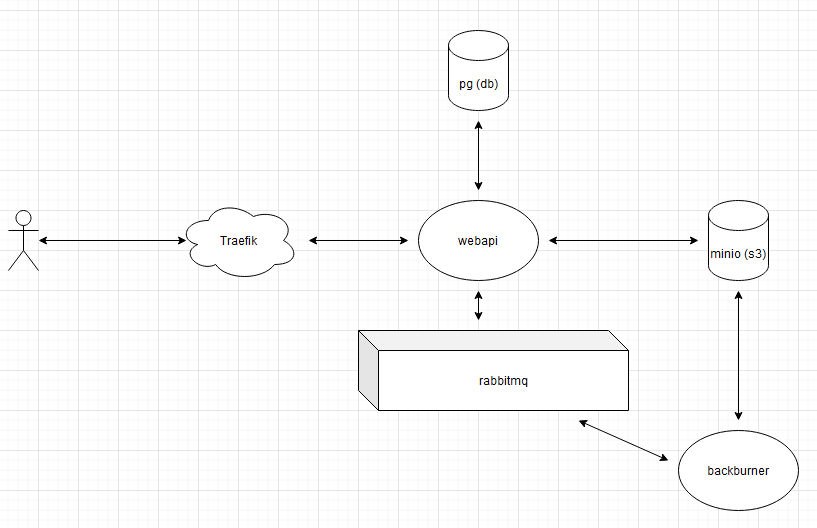
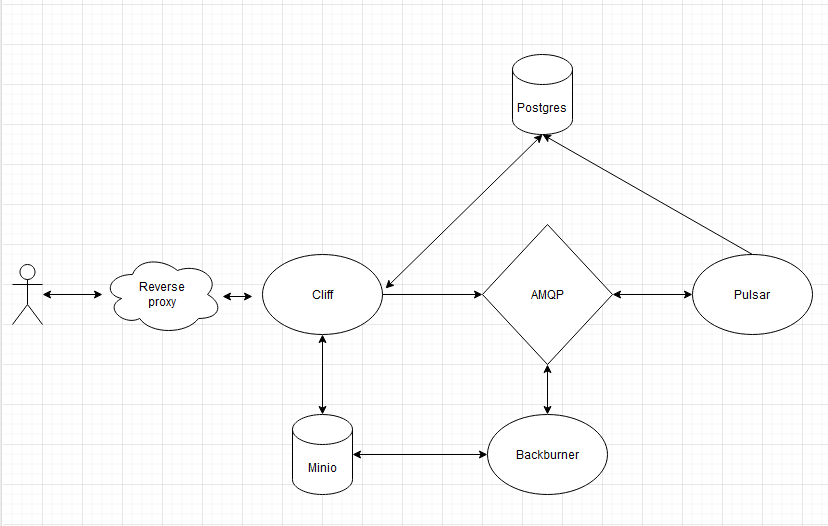
Doc: update it

diff --git a/README.md b/README.md
@@ -1,26 +1,51 @@
 # Nienna
 
+Nienna is a solution to upload and watch videos. It converts uploaded videos to HLS and serve it on demand.
+
+It later aim to allow streaming.
+
+## Name origin:
+
+"Tutor of Olórin; weeps constantly, but not for herself; and those who hearken to her learn pity, and endurance in hope.
+She gives strength to those in the Hall of Mandos. Her tears are those of healing and compassion, not of sadness, and
+often have potency; she watered the Two Trees with her tears, and washed the filth of Ungoliant away from them once they
+were destroyed. She was in favour of releasing Melkor after his sentence, not being able to see his evil nature."
+*Source: [Wikipedia](https://en.wikipedia.org/wiki/Vala_(Middle-earth)#Nienna)*
+
+## How to use
+To run it locally, the easiest way is to use docker and execute `make d_launch`. 
+
+## How to develop
+It can be difficult, specially if you use Windows. You will need to have installed on your system `Node`, `Go`, `ffmpeg`, `Rust`, `Python3`, `RabbitMQ`, `PostgreSQL` and `Minio`. You might also run into some troubles with CORS.
+
+Or you can run: `make d_dev` in one terminal and while in `webapp` dir, `npm run serve`. 
+
+It starts all the containers but it also mount each services without launching them. This way you can hop into them with `make d_<SERVICE_NAME>` and either launch it while needing it without have to relaunch all the services.
+
 ## Services:
 
 ![Docs](docs/archi_schema.png)
 
 ### Custom
-* webapp (vue) -> Allow to upload, watch video and watch livestream
-* api (Go) -> serve webapp, and deliver content
-* backburner (rust) -> Process uploaded video into hls
-* river -> handle incoming livestream and save them
+
+* Webapp (Vue) -> Allow to upload, watch video and watch livestream
+* Cliff (Go) -> serve webapp, and serve http request (handle uploaded file and watching)
+* Backburner (Rust) -> Process uploaded video into HLS
+* Pulsar -> Save event from videos
+* River -> handle incoming livestream and save them (done later)
 
 ### Tiers
-* Bucket storage (minio) -> https://hub.docker.com/r/minio/minio/
-* async message bus (Rabbitmq) -> https://hub.docker.com/_/rabbitmq
-* Relational database (pgsql) -> https://hub.docker.com/_/postgres
-* Reverse proxy (caddy) -> 
+
+* Bucket storage (Minio) -> https://hub.docker.com/r/minio/minio/
+* Asynchronous message bus (RabbitMQ) -> https://hub.docker.com/_/rabbitmq
+* Relational database (Pgsql) -> https://hub.docker.com/_/postgres
+* Reverse proxy (Caddy) -> https://hub.docker.com/_/caddy
 
 ## TODOLIST
-* cliff -> add worker to update video status in db
 
+* Pulsar -> add worker to update video status in db
 * Doc -> flow
-* backburner -> check worker status -> Heartbeat (not doable yet)
+* Backburner -> check worker status -> Heartbeat (not doable yet)
 * Docker -> makefile with hadolint + on other projects
 * cliff -> fix memory usage when uploading file to minio (another client or some tweaks)
 * cliff -> Lock database when initializing database
@@ -29,6 +54,3 @@
 * cliff -> Test Cliff
 * cliff -> Prevent SQL injection (OMG)
 * cliff -> add password
-
-## Interesting articles
-* https://blog.eleven-labs.com/fr/video-live-dash-hls/
